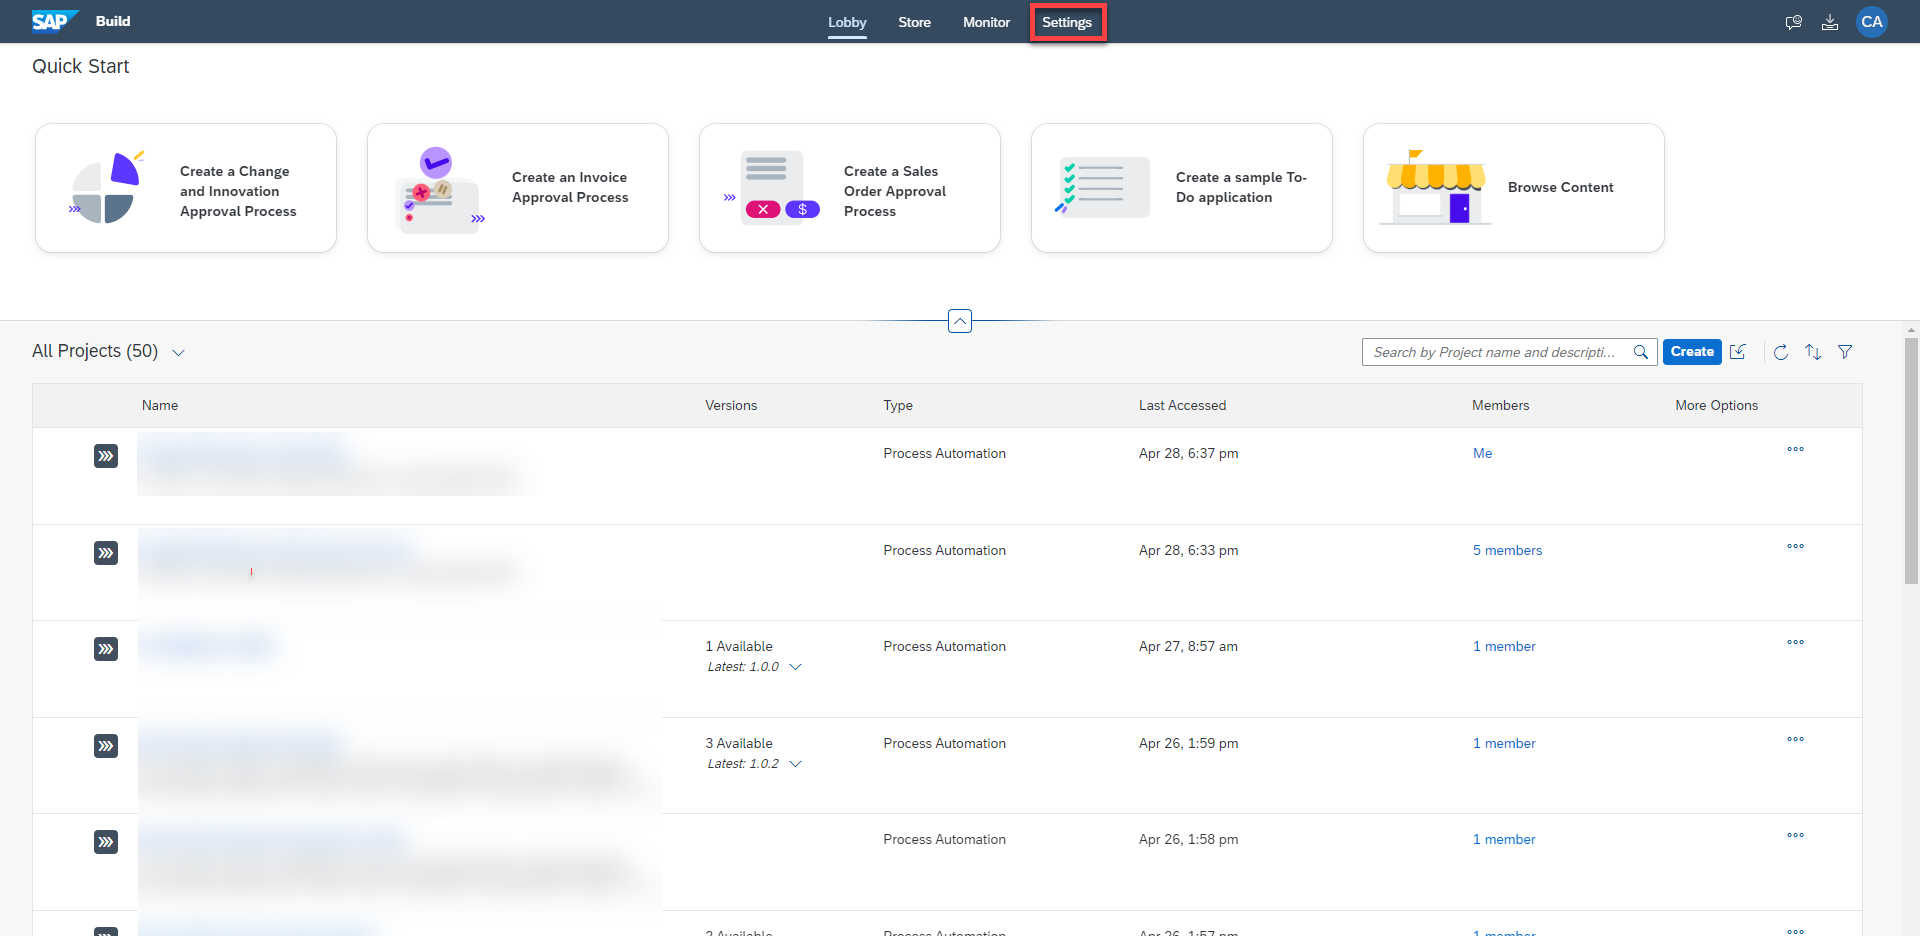
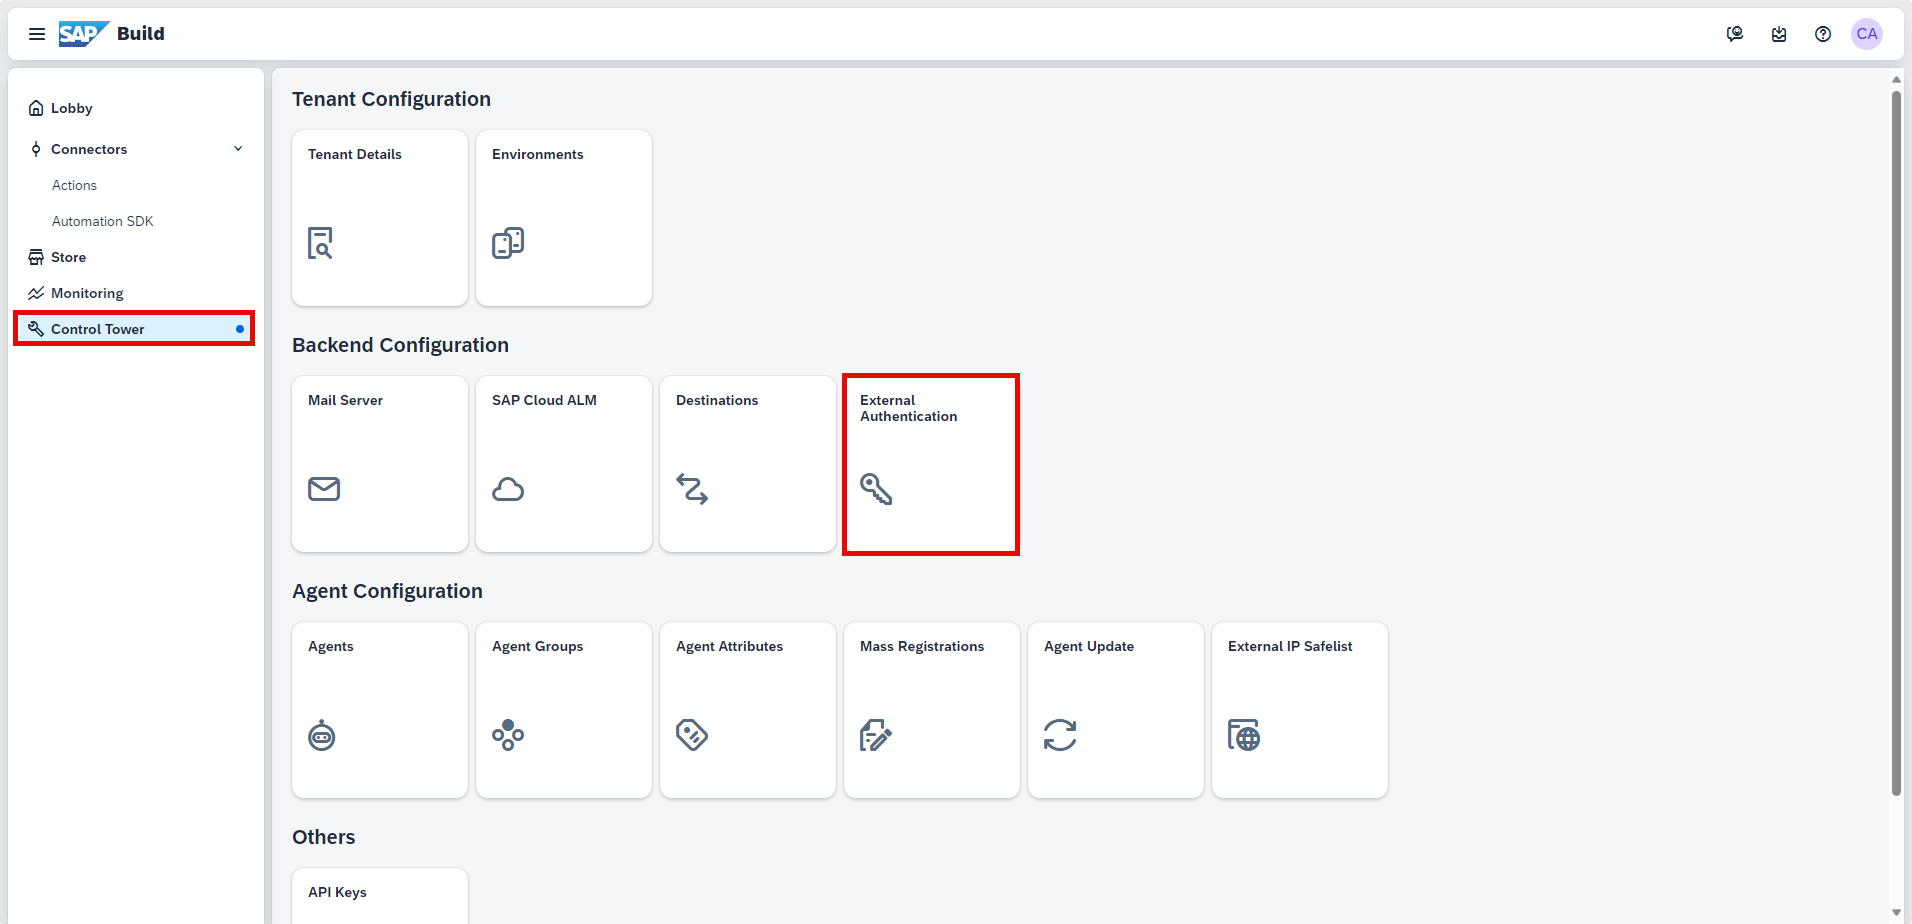
lobby changes: settings

diff --git a/tutorials/spa-authorize-google-oauth/spa-authorize-google-oauth.md b/tutorials/spa-authorize-google-oauth/spa-authorize-google-oauth.md
@@ -55,15 +55,13 @@ In this first option, you will learn how to use OAuth Client ID authorization me
 
 To configure External Authentication in SAP Build Process Automation, please follow the below steps:
 
-1. From the **Lobby**, select **Settings**.
+1. From **SAP Build** Lobby, select **Control Tower > External Authentication**.
 
     <!-- border -->![Settings](21.png)
 
-2. Select **External Authentication**.
+2. Choose **Create New Authentication**.
 
-3. Choose **Create New Authentication**.
-
-4. In the **Create Authentication** window, provide the following:
+3. In the **Create Authentication** window, provide the following:
 
     - Name: Google Workspace Authentication,
     - Description: Google Account for Google Workspace Automation,
@@ -75,17 +73,17 @@ To configure External Authentication in SAP Build Process Automation, please fol
     
     If you need to add other scopes, you need to delete the existing scope and create a new one. Hence, let's add all the scopes which can be used to automate any of your Google Applications.
 
-    <!-- border -->![Create Authentication](22.png)
+4. Choose **Create**.
 
-5. Choose **Create**.
+    <!-- border -->![Create Authentication](22.png)
     
     This configuration can be identified using the name. As shown in the above diagram, the configuration is stored on the cloud and identified as Google Workspace Authentication.
 
     Once you have configured the Tenant-Specific configuration, it will be shared to all the connected agent machines. These details will be available on External Authentication section of Desktop Agent 3.0 settings. Here you will have to register by providing the email id and can mark it as default Authentication. You can also undo the registered authentication.
 
-6. To register your External Authentication to the Desktop Agent 3.0. follow these steps:
+4. To register your External Authentication to the Desktop Agent 3.0. follow these steps:
 
-    - On your Desktop Agent, select **Settings>External Authentication**,
+    - On your Desktop Agent, select **Settings > External Authentication**,
     - Choose your Google Workspace Authentication,
     - Enter the email address with which you want to connect and click on the save icon,
     - Choose **Register**.
